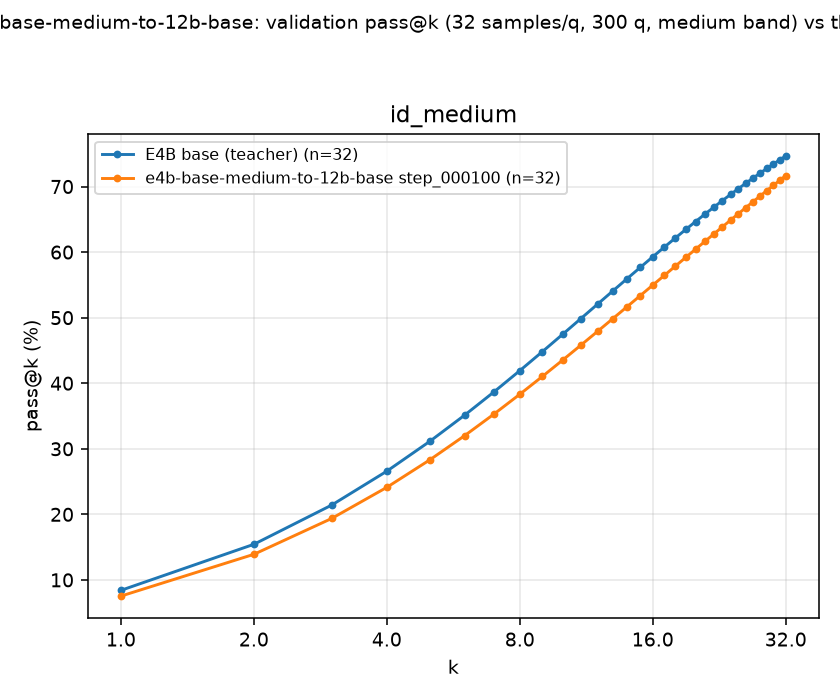
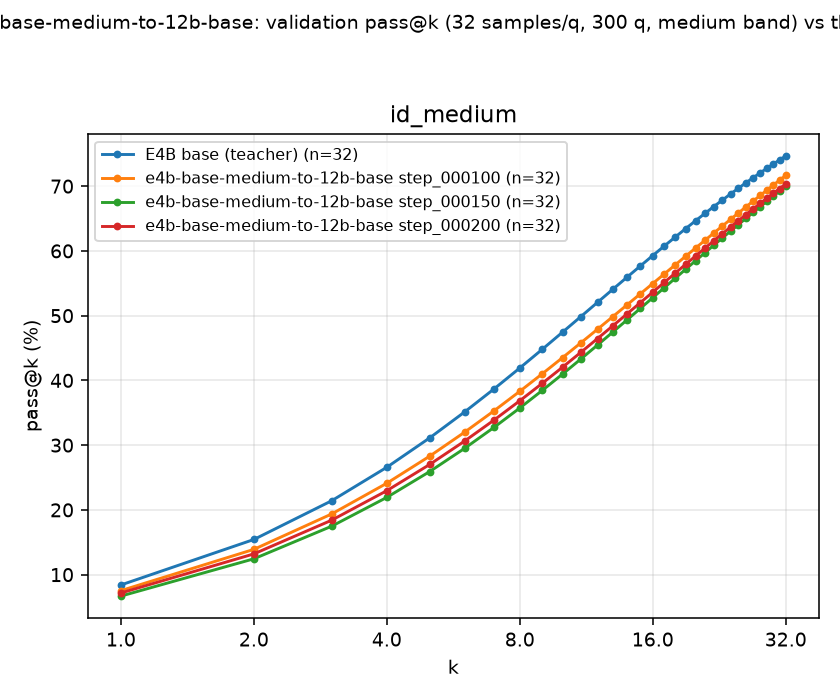
E4B-base control: 12B step 150/200 pass@k rows + figure

diff --git a/rl-distill-scripts/DISTILLATION_EXPERIMENTS.md b/rl-distill-scripts/DISTILLATION_EXPERIMENTS.md
@@ -627,8 +627,10 @@ launched yet.
 | pass@k (%) | 1 | 2 | 4 | 8 | 16 | 32 | mean@32 | maj@32 |
 |---|---|---|---|---|---|---|---|---|
 | E4B base teacher | 8.4 | 15.4 | 26.6 | 41.9 | 59.3 | 74.7 | 8.4 | 20.3 |
-| 26B-A4B ← E4B-base medium, step 250 | 8.1 | 14.8 | 25.5 | 40.4 | 57.7 | 73.3 | 8.1 | 18.3 |
-| 12B ← E4B-base medium, step 100 (resumed run, 2026-09-09) | 7.5 | 13.9 | 24.1 | 38.3 | 55.0 | 71.7 | 7.5 | 19.7 |
+| 12B ← E4B-base medium, step 100 | 7.5 | 13.9 | 24.1 | 38.3 | 55.0 | 71.7 | 7.5 | 19.7 |
+| 12B ← E4B-base medium, step 150 | 6.7 | 12.4 | 21.9 | 35.7 | 52.8 | 70.0 | 6.7 | 15.3 |
+| 12B ← E4B-base medium, step 200 | 7.2 | 13.2 | 23.0 | 36.9 | 53.6 | 70.3 | 7.2 | 21.0 |
+| 26B-A4B ← E4B-base medium, step 250 (earlier attempt) | 8.1 | 14.8 | 25.5 | 40.4 | 57.7 | 73.3 | 8.1 | 18.3 |
 
 (Untrained bases on the same band, ×16: 12B mean 14.1 / pass@16 72.0, 26B-A4B mean 23.8 / pass@16 86.3 — §8. The distilled student has moved onto the
 teacher's curve, i.e. well *below* its own pre-training ability, after 250 steps.) No 12B checkpoint exists yet (see below).
